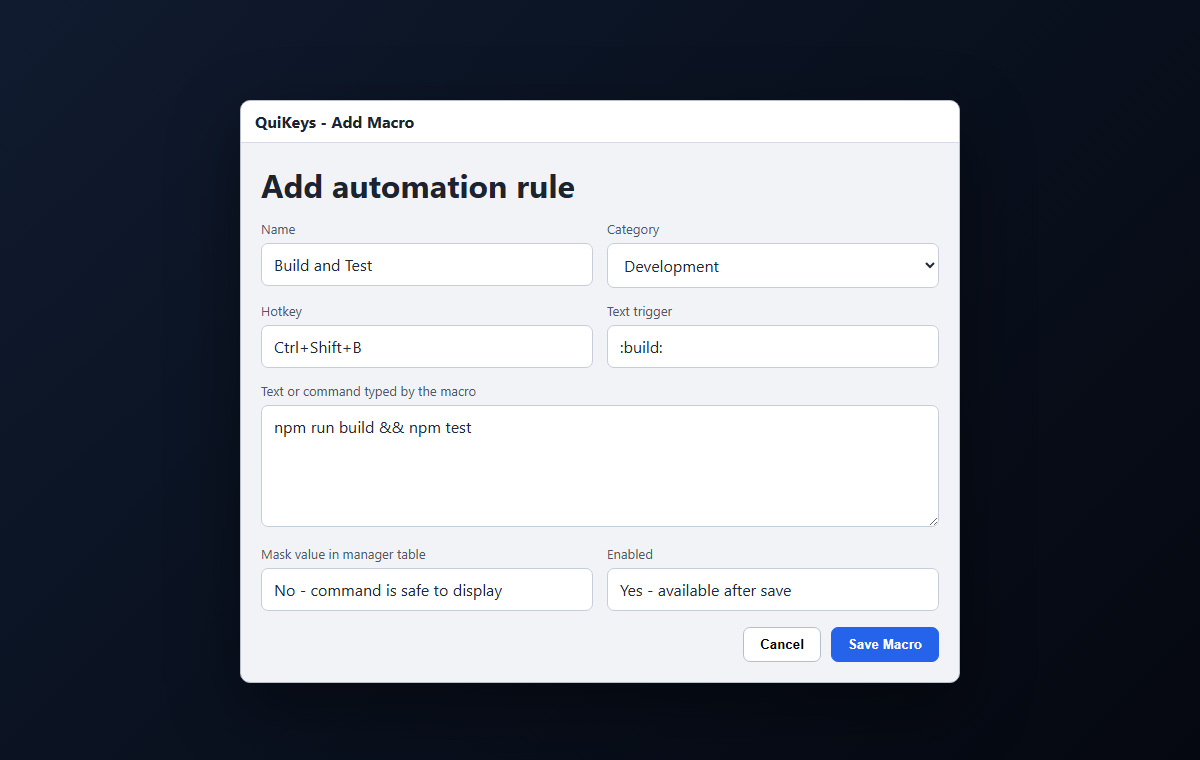
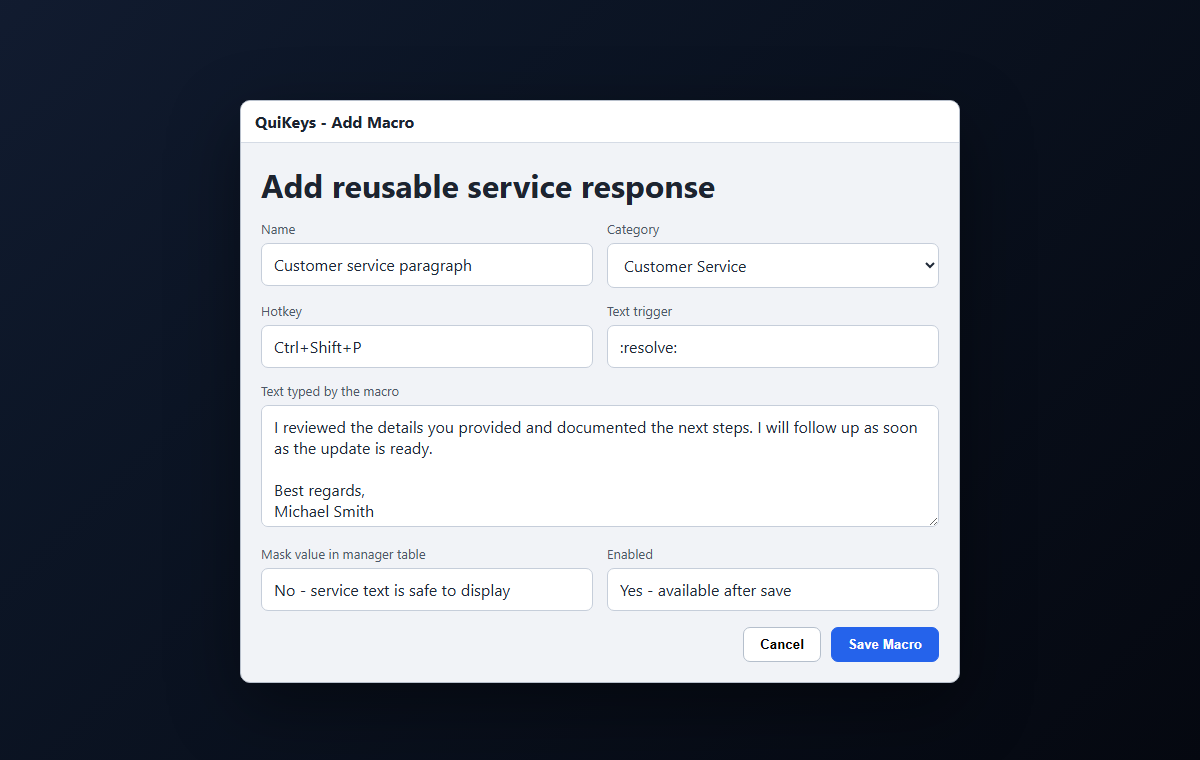
feat: update QuiKeys portfolio service snippets
Reframe the QuiKeys showcase around reusable customer-service greetings, response paragraphs, follow-ups, and signatures instead of developer command macros.

diff --git a/web/portfolio/app.js b/web/portfolio/app.js
@@ -1,6 +1,6 @@
 // Client-side renderer for the recruiter-facing product portfolio microsite.
 
-import { PORTFOLIO_APPS } from './data/apps.mjs?v=20260523-mbl2pc-pc-label';
+import { PORTFOLIO_APPS } from './data/apps.mjs?v=20260523-quikeys-service-snippets';
 
 function createFeatureImage(feature, app) {
   if (!feature.imagePath) {

diff --git a/web/portfolio/index.html b/web/portfolio/index.html
@@ -47,6 +47,6 @@
       <section id="portfolio-apps" class="portfolio-apps" aria-label="Application portfolio"></section>
     </main>
 
-    <script type="module" src="./app.js?v=20260523-mbl2pc-pc-label"></script>
+    <script type="module" src="./app.js?v=20260523-quikeys-service-snippets"></script>
   </body>
 </html>

diff --git a/CHANGELOG.md b/CHANGELOG.md
@@ -14,6 +14,7 @@ and this project adheres to [Semantic Versioning](https://semver.org/spec/v2.0.0
 - **MBL2PC portfolio story now highlights file handoff and snippets** — Reworked the MBL2PC section so the screenshots and copy show a phone sending a PC-friendly portfolio link, the PC returning a resume PDF, and saved outreach snippets instead of generic text messages.
 - **Portfolio module URLs now bust GitHub Pages cache** — Added static cache-busting query strings to the portfolio app/data module URLs so public visitors receive the latest deployed showcase copy immediately.
 - **MBL2PC portfolio device label now says PC** — Simplified the mocked sender label from "Work PC" to "PC" in the portfolio copy, refreshed MBL2PC screenshots, and bumped the portfolio cache key so public visitors receive the concise label.
+- **QuiKeys portfolio now highlights reusable service snippets** — Reframed the QuiKeys showcase around standard greetings, customer-service paragraphs, follow-up text, and support signatures instead of developer command macros.
 
 ### Fixed
 - **Terminal sessions now survive Windows sleep instead of reopening as fresh shells** — Forge previously treated `PBT_APMSUSPEND` as a signal to close every live and detached PTY before the machine slept. After resume, reconnect created a new prompt because the original shell had already been destroyed. Forge now records the suspend event without tearing down PTYs, and any disconnect that happens shortly after wake receives an extended reconnect grace window so the original shell can be reattached instead of replaced.
